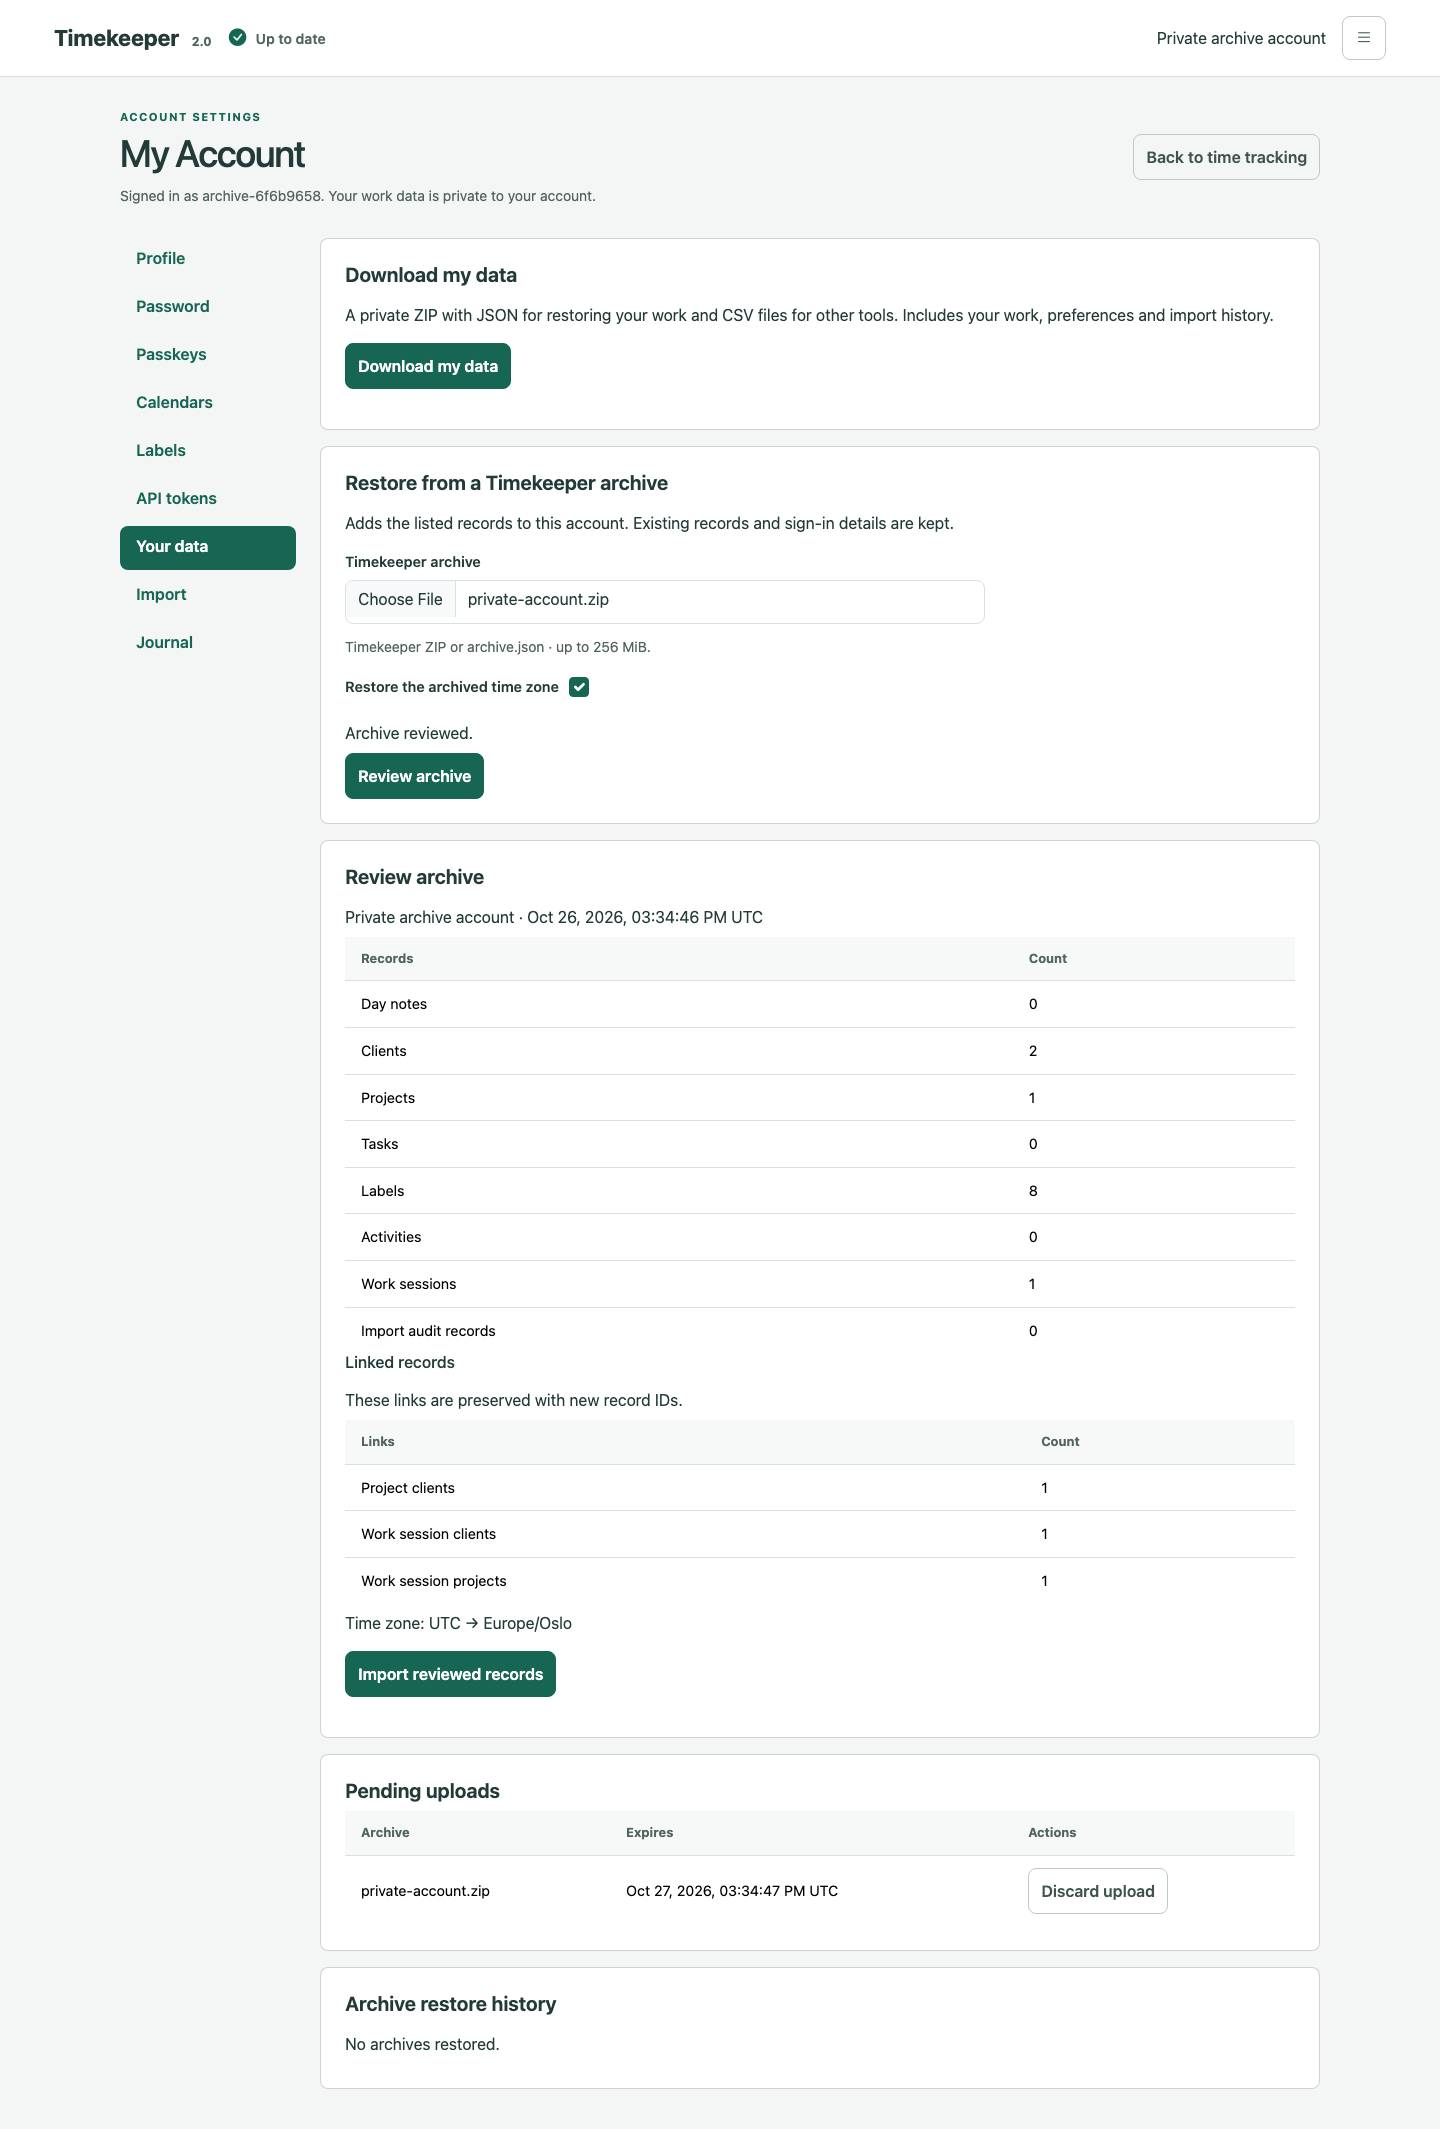
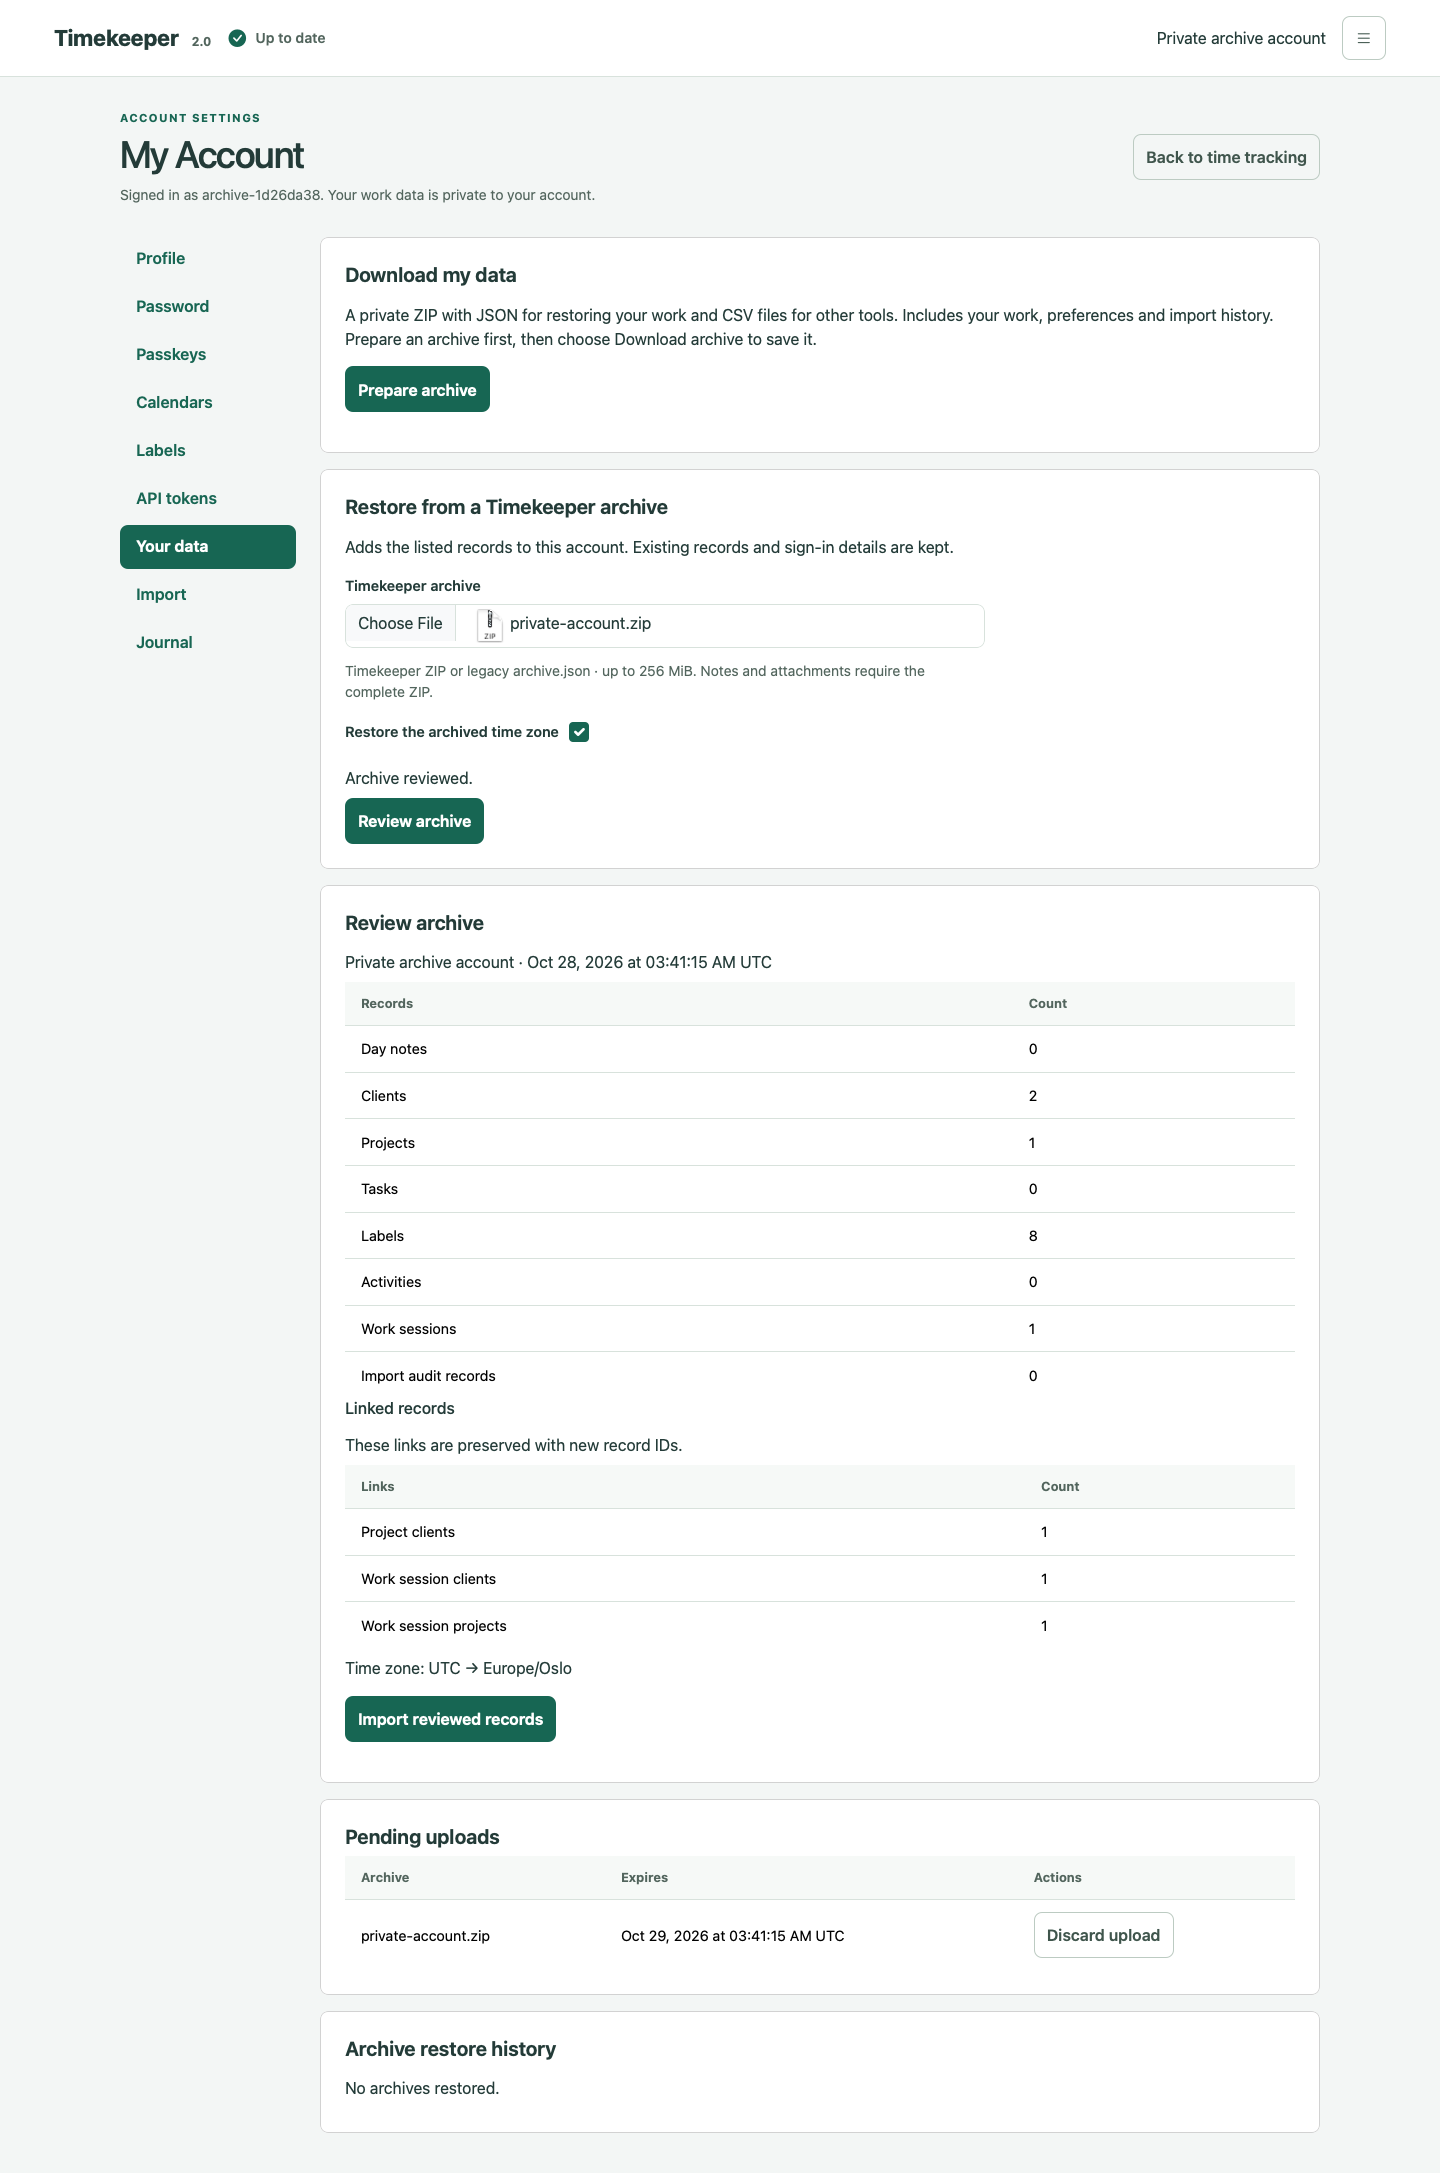
Refresh archive documentation screenshots and acceptance evidence

diff --git a/docs/verification/ACCOUNT-DATA.md b/docs/verification/ACCOUNT-DATA.md
@@ -49,3 +49,19 @@ checks. Packaged browser receipts identify the distribution digest and source.
 Traces and videos containing credentials are disabled. See the
 [user guide](../operations/ACCOUNT-DATA.md) and
 [desktop/mobile review screenshots](../development/WEB-CLIENT.md#account-data-portability).
+
+## Separate preparation and download (#469)
+
+On 2026-10-28, candidate `8854638f1c44e8c20b4803cfc648e9351c547e5b`
+passed all 97 web unit tests and all five packaged account-portability scenarios
+in Chromium and HTTPS WebKit. The tested distribution SHA-256 was
[1 lines of base64/hex data omitted]
+
+The browser regressions observe zero download events after **Prepare archive**,
+then exactly one after **Download archive**, with a dated server filename.
+Read-only sessions repeat both operations; preparing again replaces and revokes
+the previous private object URL. Existing upload/review, lost-reply recovery,
+concurrent session refresh and duplicate-safe restore checks pass through this
+new download flow. Desktop, 390px and 320px layouts pass automated accessibility
+and overflow checks. The desktop/mobile review screenshots were refreshed from
+the WebKit run and visually inspected. These use disposable local accounts.
